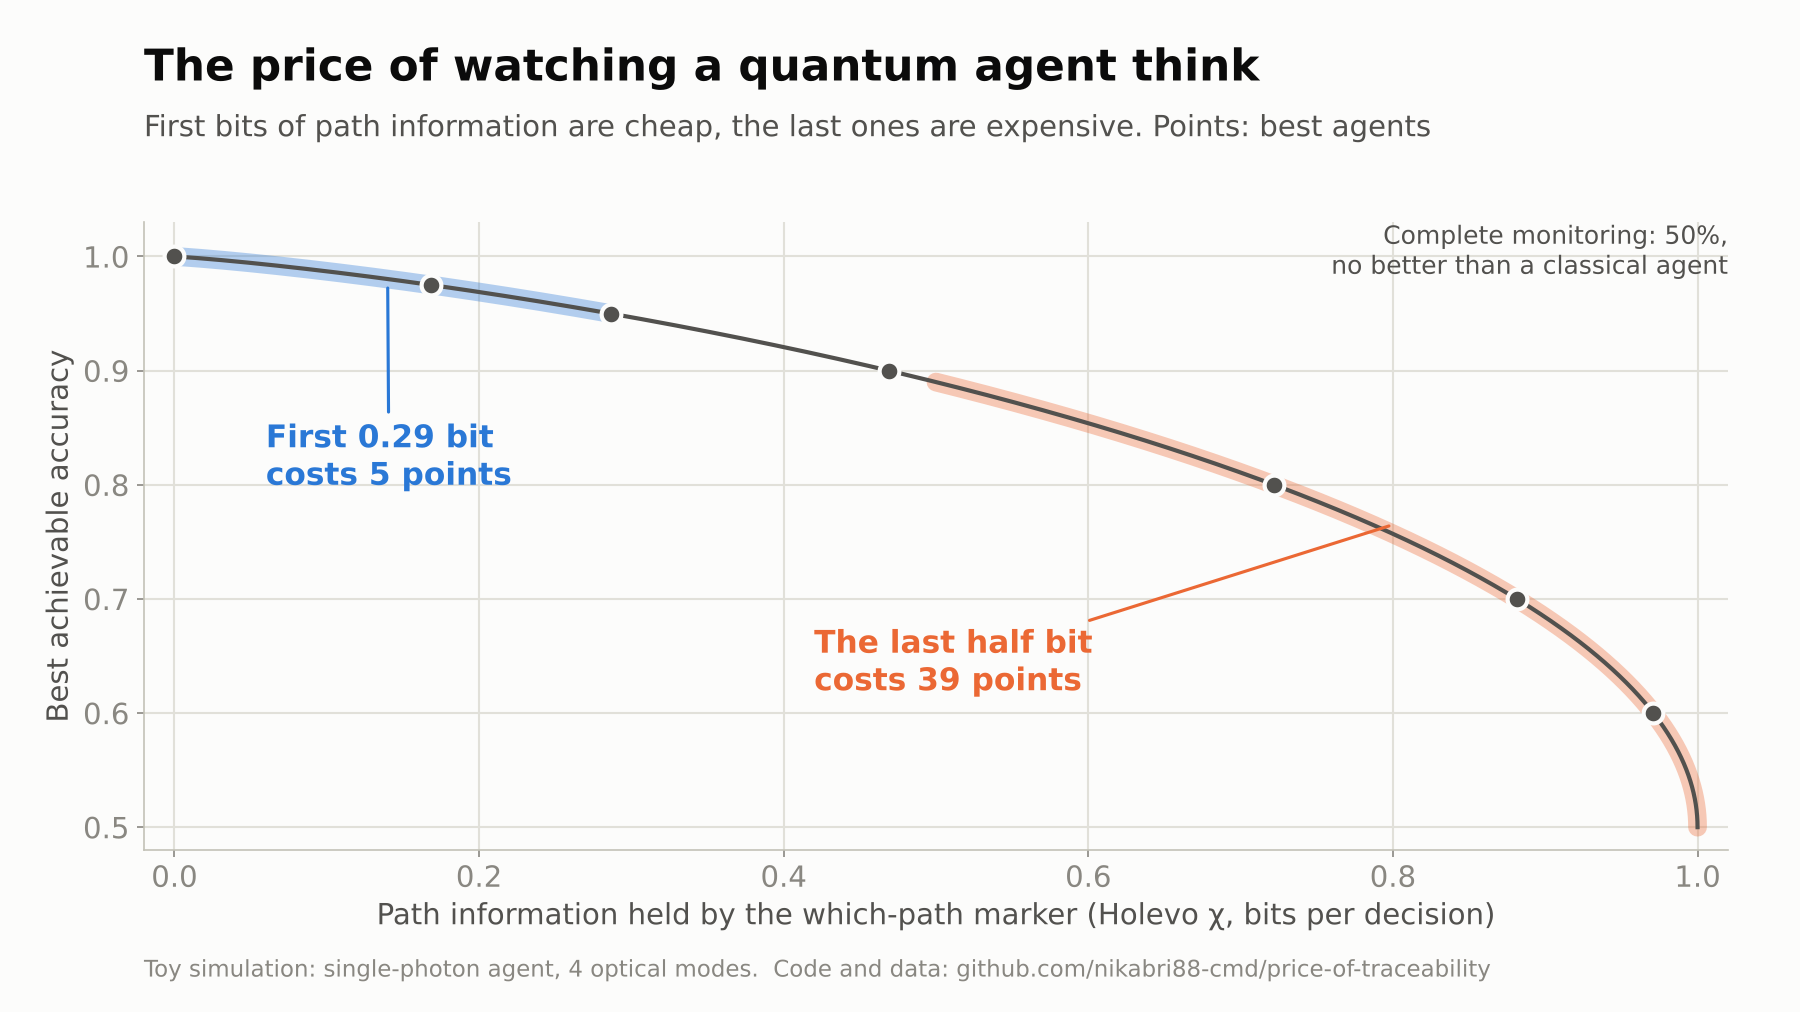
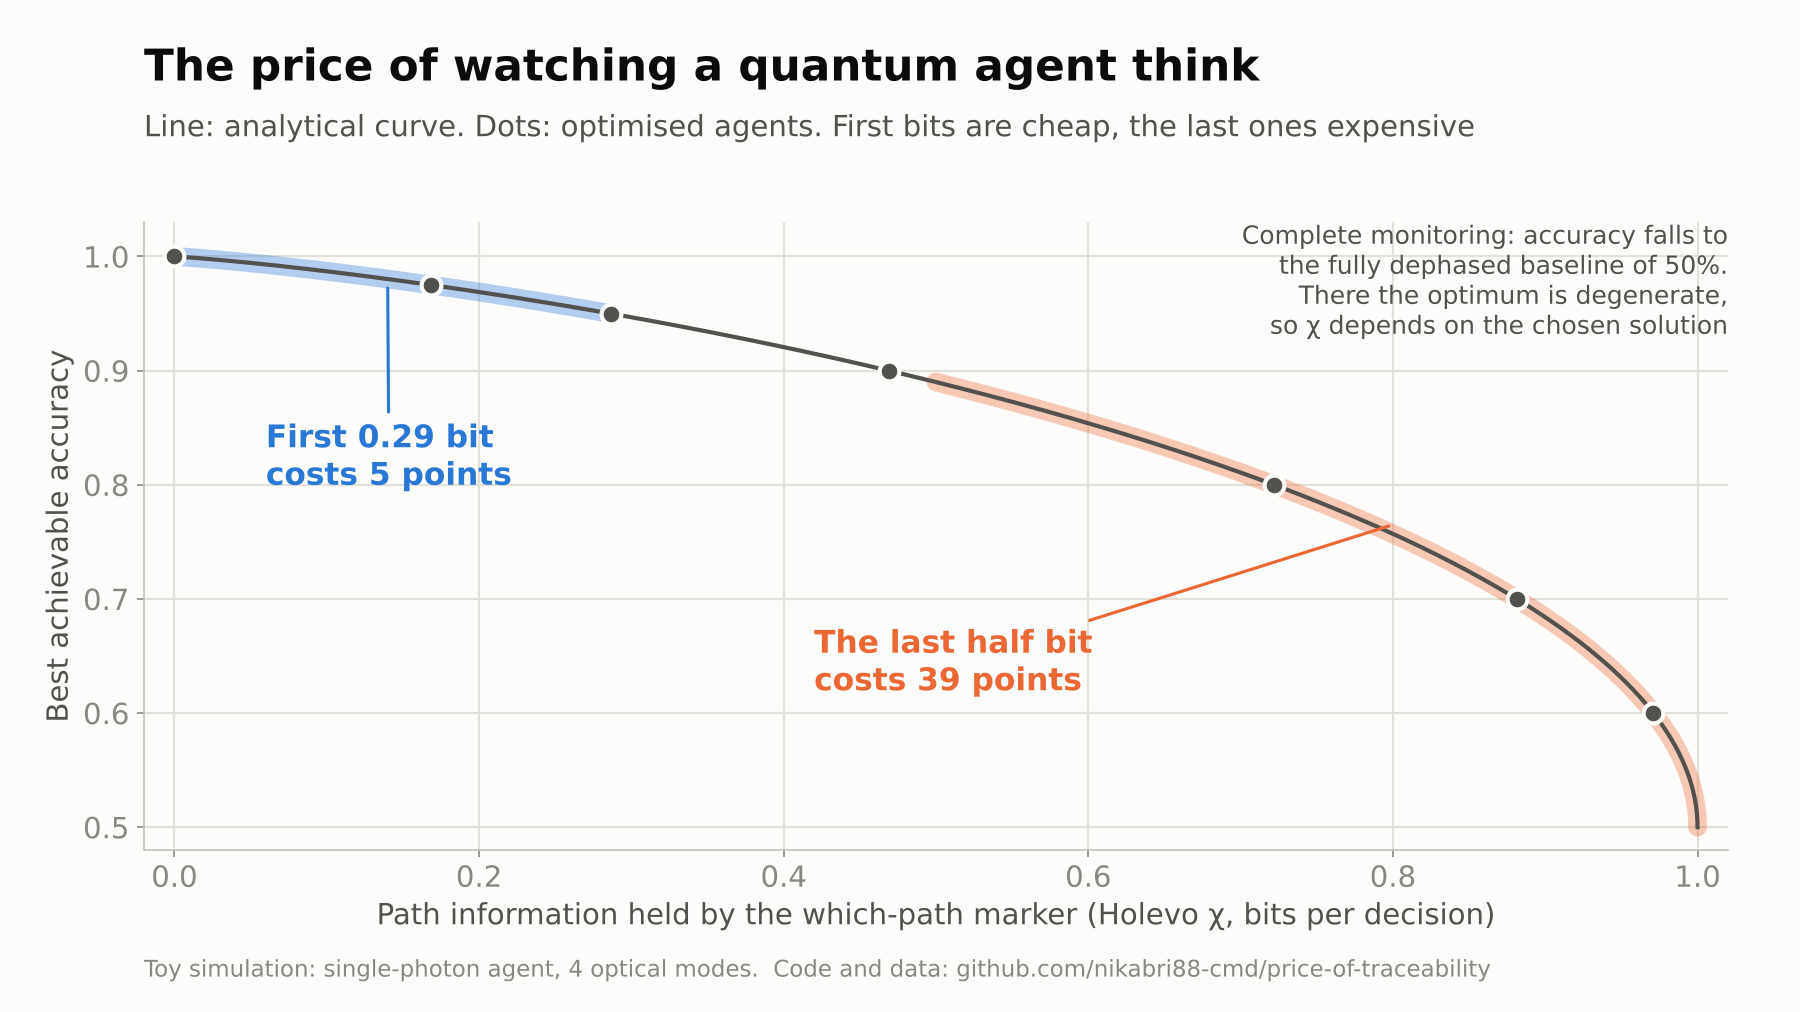
Second review round: narrower claims and clearer figures
- complete monitoring: fully dephased 50% baseline instead of 'classical agent'
- claim scope limited to extracting which-path information in this model
- loss: shift toward lossless paths starts at the first monitoring step
- figures: analytical curve labelled, lost photons count as failures
- README: bug documented, fixed and re-run listed separately

Claude-Session: https://claude.ai/code/session_01LKg2zZ7ijjRSdvGXjezqCU

Changed region(s): [[0.0933, 0.0919, 0.8089, 0.1532], [0.6844, 0.2144, 0.9644, 0.337]]

diff --git a/social/x_figures.py b/social/x_figures.py
@@ -41,7 +41,7 @@ def frame(title, subtitle):
 s1 = json.load(open("results/QT-S1/QT-S1_results.json"))["rows"]
 pts = [(r["info_opt_bits"], r["acc_max"]) for r in s1 if r["gamma"] > 0]
 fig, ax = frame("The price of watching a quantum agent think",
-                "First bits of path information are cheap, the last ones are expensive. Points: best agents")
+                "Line: analytical curve. Dots: optimised agents. First bits are cheap, the last ones expensive")
 acc = np.linspace(0.5, 1.0, 4000)
 h2_inv_half = acc[np.argmin(np.abs(h2(acc) - 0.5))]          # accuracy where 0.5 bit is reached (0.89)
 ax.plot(h2(acc), acc, color=INK2, lw=2, zorder=2)
@@ -54,25 +54,25 @@ ax.annotate("First 0.29 bit\ncosts 5 points", (0.14, 0.976), xytext=(0.06, 0.80)
             weight="bold", arrowprops=dict(arrowstyle="-", color=BLUE, lw=1.5))
 ax.annotate("The last half bit\ncosts 39 points", (0.80, 0.765), xytext=(0.42, 0.62), color=ORANGE, fontsize=15,
             weight="bold", arrowprops=dict(arrowstyle="-", color=ORANGE, lw=1.5))
-ax.text(1.0, 1.0, "Complete monitoring: 50%,\nno better than a classical agent",
+ax.text(1.0, 1.0, "Complete monitoring: accuracy falls to\nthe fully dephased baseline of 50%.\nThere the optimum is degenerate,\nso χ depends on the chosen solution",
         ha="right", va="top", fontsize=12, color=INK2, transform=ax.transAxes)
 fig.savefig("social/X_image1_price.png", dpi=150, facecolor=SURF)
 
 # ---- Image 2: under photon loss the agent backs off (QT-S2 post-hoc dense grid) ----
 d = json.load(open("results/QT-S2/QT-S2_posthoc_dense_loss.json"))["rows"]
-fig, ax = frame("Lossy optics: monitoring pushes the agent off lossy paths",
-                "Best agent as monitoring grows (dot = step of 0.05, post-hoc grid). Ideal optics vs 30% loss on some paths")
+fig, ax = frame("Lossy optics: monitoring pushes the best agent off lossy paths",
+                "Dots: optimised agents, monitoring step 0.05 (post-hoc grid). Lost photons count as failures")
 for eps, col, lab, xy in ((0.0, BLUE, "Ideal optics", (0.40, 0.935)), (0.3, ORANGE, "30% photon loss", (0.02, 0.765))):
     rows = [r for r in d if r["epsilon"] == eps]
     ax.plot([r["info_opt_bits"] for r in rows], [r["acc_max"] for r in rows], "-o", color=col, lw=2.5, ms=6,
             mec=SURF, mew=1.5, zorder=3)
     ax.text(*xy, lab, color=col, fontsize=15, weight="bold")
 peak = max((r for r in d if r["epsilon"] == 0.3), key=lambda r: r["info_opt_bits"])
-ax.annotate("From here on, stronger monitoring shifts the optimum\ntoward lossless paths and uses less interference",
+ax.annotate("Beyond this point, stronger monitoring yields less path\ninformation as the optimum shifts further toward lossless paths",
             (peak["info_opt_bits"], peak["acc_max"]), xytext=(0.06, 0.635), color=INK2, fontsize=14,
             arrowprops=dict(arrowstyle="->", color=MUTED, lw=1.5))
 end = next(r for r in d if r["epsilon"] == 0.3 and abs(r["gamma"] - 0.2) < 1e-9)
-ax.annotate("At this point still 53.7%, above the classical 50%:\ninterference is used less, not abandoned", (end["info_opt_bits"], end["acc_max"]),
+ax.annotate("Here still 53.7%, above the fully dephased 50% baseline:\ninterference is used less, not abandoned", (end["info_opt_bits"], end["acc_max"]),
             xytext=(0.06, 0.545), color=INK2, fontsize=12, arrowprops=dict(arrowstyle="-", color=MUTED, lw=1))
 fig.savefig("social/X_image2_loss.png", dpi=150, facecolor=SURF)
 print("saved")

diff --git a/README.md b/README.md
@@ -10,9 +10,9 @@ The trade-off itself follows from the Englert duality relation (D² + V² ≤ 1)
 
 **QT-S1, ideal optics** ([report](reports/QT-S1_report.md))
 
-- The first bits are cheap: a marker holding up to 0.29 bit per decision costs 5 accuracy points.
-- The last bits are expensive: the last half bit (0.5 → 1 bit) costs 39 points.
-- Under complete monitoring the best accuracy is 50%, no better than a classical agent. The optimum is degenerate there: single-path and superposed agents score the same, so superposition becomes useless without being forced out.
+- The first bits are cheap: a marker holding up to 0.29 bit per decision costs 5 accuracy points (optimised agents).
+- The last bits are expensive: on the analytical curve, the last half bit (0.5 → 1 bit) costs 39 points.
+- Under complete monitoring accuracy falls to the fully dephased baseline of 50%, the limit of this model when interference is fully suppressed. The optimum is degenerate there: single-path and superposed agents score the same, so the marker's χ at that point depends on which solution is chosen.
 - Learning agents end with less path superposition under heavy monitoring than the optimum uses (exploratory).
 
 ![QT-S1](results/QT-S1/QT-S1_figure.png)
@@ -21,7 +21,7 @@ The trade-off itself follows from the Englert duality relation (D² + V² ≤ 1)
 
 - The shape of the price survives mirror noise: the last bits cost about 4.6 times more per bit than the first ones at every noise level tested.
 - Imperfect hardware loses less to complete monitoring in absolute terms: at 0.2 rad of noise it costs 0.32 accuracy instead of 0.50.
-- With 30% photon loss on the phase-carrying paths, stronger monitoring shifts the optimum toward the lossless paths (share of probability on the lossy paths 41% with no monitoring, 17% at gamma_log = 0.2) and reduces its use of interference. Accuracy stays above the classical 50% (53.7% at gamma_log = 0.2).
+- With 30% photon loss on the phase-carrying paths, stronger monitoring shifts the optimum toward the lossless paths (share of probability on the lossy paths 41% with no monitoring, 17% at gamma_log = 0.2) and reduces its use of interference. The shift starts with the first monitoring step (41.2% at gamma_log = 1, 40.2% at 0.9); beyond gamma_log ≈ 0.4 the marker's path information also starts to fall. Accuracy stays above the fully dephased 50% baseline (53.7% at gamma_log = 0.2). Lost photons count as failures.
 - Learning tolerates mirror noise up to 0.2 rad.
 
 ![QT-S2](results/QT-S2/QT-S2_figure.png)
@@ -40,11 +40,18 @@ with ε the loss on the phase-carrying paths and γ the coherence the marker lea
 
 ## Corrections after independent review (2026-10-13)
 
+Two rounds of review on the same day. The points below are the state after both.
+
 1. **Axis meaning.** Earlier text called the x-axis "logged bits". It is the Holevo information χ of the which-path marker, an upper bound on extractable path information; no readout is simulated.
-2. **Complete monitoring.** Earlier text said the optimal agent "drops superposition". The optimum is degenerate: QT-S1 found a single-path solution (0 bit), QT-S2 under identical conditions found one holding 0.49 bit, and an equal two-path superposition (1 bit) scores the same 50%. Interference becomes useless; superposition is not forced out.
-3. **Loss.** Earlier text said the agent "retreats from superposition". It shifts probability toward lossless paths and uses interference less, while staying above 50%.
-4. **Arithmetic.** Earlier text said "the next half bit costs 30 points". From 0.29 to 0.79 bit the cost is 18.5 points; the 30 points belong to the step from 0.47 to 0.97 bit, and the last half bit (0.5 → 1) costs 39.
-5. **Learning under loss (code bug).** `reinforce2()` skipped episodes where the photon was lost. With a reward baseline b this adds a bias of -b ∇P(click). Fixed by including the no-click outcome in the score function; the loss-series learners were re-run (`results/QT-S2/QT-S2_L_learners_fixed.json`). Ceilings and all lossless results are unaffected; the fixed code reproduces the lossless learner curves exactly.
+2. **Complete monitoring.** Earlier text said the optimal agent "drops superposition" and later that it is "no better than a classical agent". The optimum is degenerate: QT-S1 found a single-path solution (0 bit), QT-S2 under identical conditions found one holding 0.49 bit, and an equal two-path superposition (1 bit) scores the same 50%. Accuracy falls to the fully dephased baseline of this model; no comparison with classical AI in general was made.
+3. **Loss.** Earlier text said the agent "retreats from superposition", and a figure suggested the shift begins at the turn of the curve. The optimum shifts probability toward lossless paths from the first monitoring step and uses interference less, while staying above the fully dephased 50% baseline; only the marker's path information turns down beyond gamma_log ≈ 0.4.
+4. **Arithmetic.** Earlier text said "the next half bit costs 30 points". From 0.29 to 0.79 bit the cost is 18.5 points; the 30 points belong to the step between the simulated points at 0.47 and 0.97 bit, and on the analytical curve the last half bit (0.5 → 1) costs 39.
+5. **Learning under loss (code bug).**
+   - *Documented:* `reinforce2()` skipped episodes where the photon was lost. With a reward baseline b this adds a bias of -b ∇P(click) to the learning update.
+   - *Fixed in code:* the no-click outcome is now part of the score function (`src/qt_s2_sim.py`).
+   - *Re-run:* the 10 loss-series learner conditions, results in `results/QT-S2/QT-S2_L_learners_fixed.json`, compared with the original in `reports/QT-S2_report.md`. The original files are kept unchanged.
+   - *Unaffected:* all optimum (ceiling) results and figures, which use a separate function, and all lossless learner results, which the fixed code reproduces exactly.
+6. **Scope of the claim.** Earlier text said that monitoring and quantum advantage "trade off" in general. The supported statement is narrower: in this model, extracting internal which-path information suppresses the interference that carries task information.
 
 ## Hypothesis verdicts
 

diff --git a/reports/QT-S1_report.md b/reports/QT-S1_report.md
@@ -31,12 +31,12 @@ Learning rate chosen at gamma = 1 on seeds 100–119, mean final accuracy: 0.02 
 ## Findings
 
 1. **The price is non-linear.** A marker holding up to 0.29 bit per decision costs 5 accuracy points; the step from 0.47 to 0.97 bit costs 30 points, and the last half bit (0.5 → 1) costs 39. The first bits are cheap; the last bits are expensive.
-2. **Complete monitoring makes interference useless.** At gamma = 0 the best accuracy is 50%, no better than a classical agent. The optimum is degenerate: the optimiser here found a single-path solution, but superposed solutions score the same, so superposition becomes useless without being forced out.
+2. **Complete monitoring makes interference useless.** At gamma = 0 accuracy falls to the fully dephased baseline of 50%, the limit of this model when interference is fully suppressed. The optimum is degenerate: the optimiser here found a single-path solution, but superposed solutions score the same, so superposition becomes useless without being forced out.
 3. **Exploratory, not pre-registered: learners under heavy monitoring use less superposition than the optimum.** At gamma = 0.2 learning agents end with 0.55 bit of path information in the marker versus 0.97 at the ceiling. Median learners reach 91–100% of their ceiling at every gamma.
 
 ## Reading for agent governance
 
-Monitoring a quantum agent's deliberation completely removes the part of performance carried by interference: the agent can do no better than a classical one. Partial monitoring costs little at first, and its price rises steeply with the last bits. In this toy, auditing at the level of inputs, outputs, learned parameters and run statistics costs nothing, and each bit of per-decision path record has a measurable price set by the Englert duality relation.
+In this model, extracting internal which-path information suppresses the interference that carries task information. Complete monitoring brings accuracy down to the fully dephased baseline of 50%; partial monitoring costs little at first, and its price rises steeply with the last bits of path information. In this toy, auditing at the level of inputs, outputs, learned parameters and run statistics costs nothing, and each bit of per-decision path record has a measurable price set by the Englert duality relation.
 
 ## Limits
 

diff --git a/reports/QT-S2_report.md b/reports/QT-S2_report.md
@@ -60,12 +60,12 @@ A dense grid of log strength (steps of 0.05, exact ceilings, sigma = 0) for epsi
 
 1. **The shape of the price survives mirror noise.** Noise scales the price curve down and keeps its convexity: the last bits cost about 4.6 times more per bit than the first ones at every sigma tested.
 2. **Imperfect hardware loses less to complete monitoring in absolute terms.** It has less interference to lose: at sigma = 0.2 rad complete monitoring costs 0.32 accuracy instead of 0.50.
-3. **Under photon loss, monitoring shifts the optimum toward lossless paths.** With 30% loss on the phase-carrying paths, the share of probability on those paths falls from 41% with no monitoring to 17% at gamma_log = 0.2, and the optimum uses interference less; accuracy there is 53.7%, still above the classical 50%. The closed form A_max = (2 - ε + sqrt(ε² + 4γ²(1 - ε)))/4 (README) explains this from the optics of the task.
+3. **Under photon loss, monitoring shifts the optimum toward lossless paths.** With 30% loss on the phase-carrying paths, the share of probability on those paths falls from the first monitoring step on (41.2% at gamma_log = 1, 40.2% at 0.9) down to 16.6% at gamma_log = 0.2, and the optimum uses interference less; accuracy there is 53.7%, still above the fully dephased 50% baseline. Lost photons count as failures. Beyond gamma_log ≈ 0.4 the marker's path information also starts to fall. The closed form A_max = (2 - ε + sqrt(ε² + 4γ²(1 - ε)))/4 (README) explains this from the optics of the task.
 4. **Learning tolerates mirror noise up to 0.2 rad.**
 
 ## Reading for agent governance
 
-Monitoring demands and hardware imperfections interact. The more imperfect the hardware, the less complete monitoring costs in absolute terms. On lossy hardware, stronger monitoring also moves the best agent toward lossless paths, so it uses interference less.
+In this model, monitoring strength and hardware imperfections interact. The more imperfect the hardware, the less complete which-path monitoring costs in absolute terms. With path-dependent loss, stronger monitoring also moves the best agent toward lossless paths, so it uses interference less.
 
 ## Limits
 
